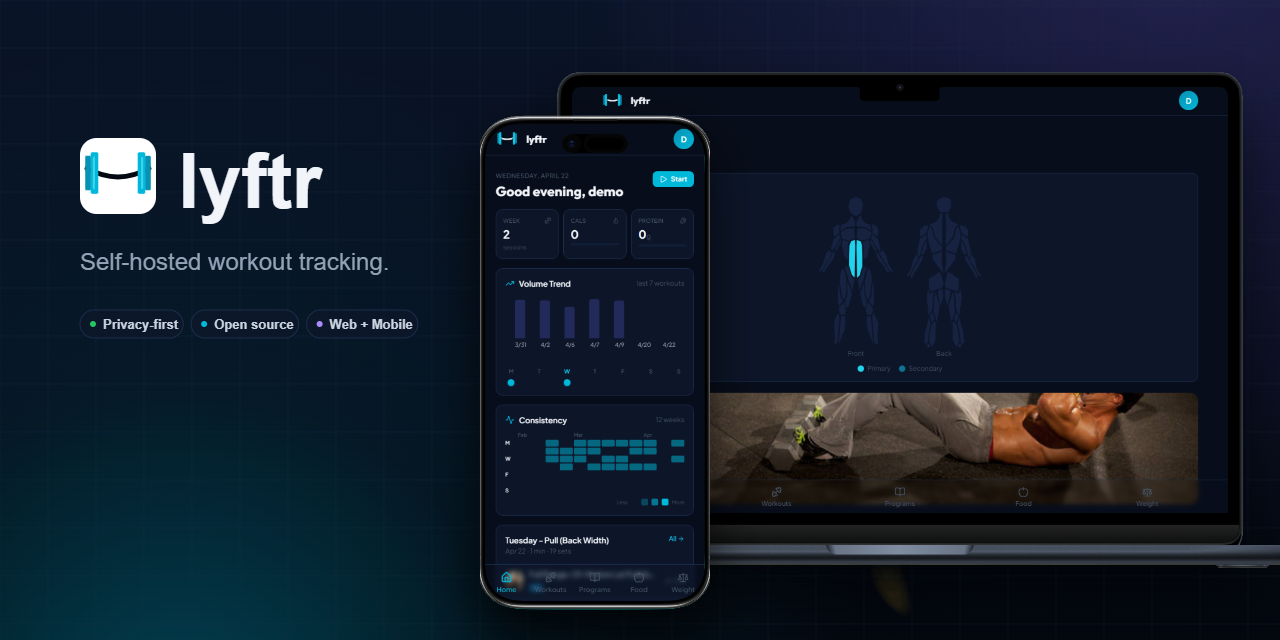
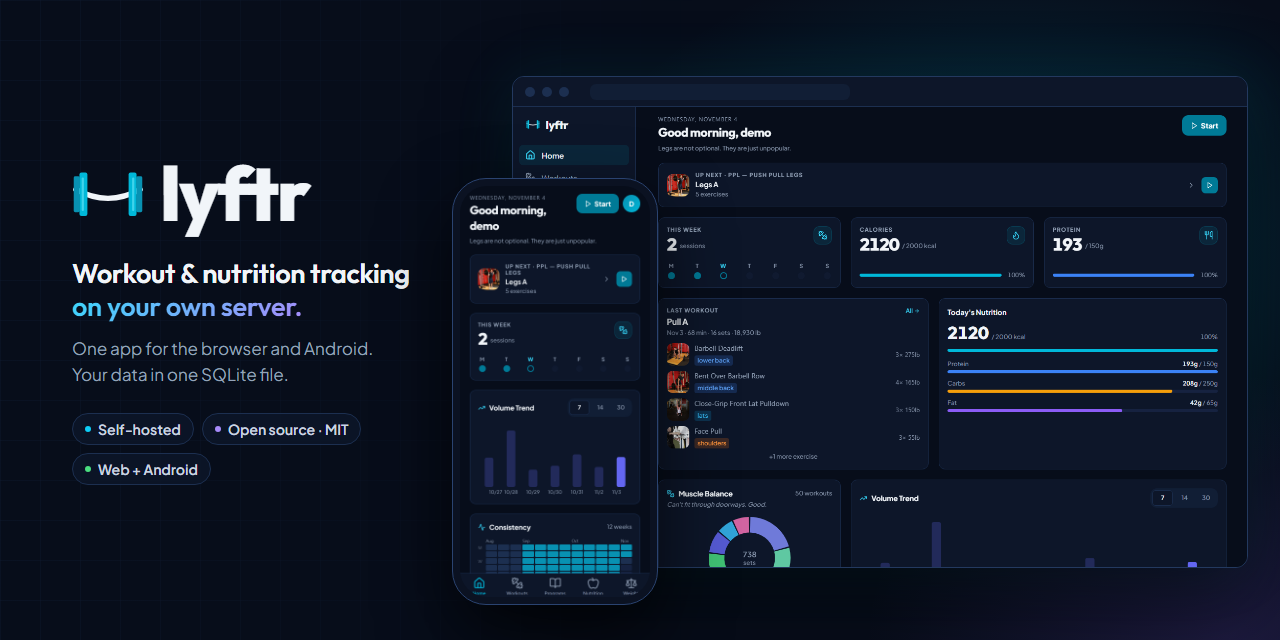
Refresh the landing page and docs for the Expo universal app
Landing: the hero shows the real dashboard on desktop and phone instead of the
stale banner, and a four-row tour (plan, lift, progress, eat) pairs a desktop
frame with a phone frame of the same feature, since "one app on every screen" is
what the new product is. Features and values are trimmed to claims the code
backs. Quick start matches the README (pull, then up).

Docs, corrected against the code:
- getting-started: one app on every screen, a "what's in it" list, the demo's
  one-tap sign-in, the seed is a week of meals rather than "food logs".
- self-hosting: what the two containers are; images are multi-arch (amd64,
  arm64, armv7, checked on Docker Hub); Hetzner CAX11 is Arm, not x86.
- https, mobile: a captured token is not irrevocable any more, a password or
  email change signs out every other device; the web app needs HTTPS to keep the
  screen awake during a workout (Screen Wake Lock), as it does for the camera.
- troubleshooting: the screen-sleeps-in-the-browser case.
- faq: the server does contact two outside services (open-exercise-db, Open
  Food Facts) and the client loads their images, so "nothing is sent to any
  third party" was not true; platforms; import is not available yet.
- backups: `latest` is built from main; how to pin a release tag.

Assets: replaced with current captures; dropped the six no longer used. The
og-image is the rebuilt banner.

Claude-Session: https://claude.ai/code/session_01GY7Lc9HhTWd1D65qC74jA4

diff --git a/site/src/content/docs/getting-started.md b/site/src/content/docs/getting-started.md
@@ -4,33 +4,51 @@ description: What Lyftr is, how to try the live demo, and where to go next.
 ---
 
 **Lyftr** is a self-hosted, open-source workout & nutrition tracker — a free, no-subscription
-alternative to Hevy and Strong. Your data lives on **your** server: a single SQLite file, minimal
-RAM, no external services required.
+alternative to Hevy and Strong. Your data lives on **your** server: a single SQLite file, a small
+Docker stack, no cloud account.
+
+It is one app on every screen. Your instance serves it to any browser, with a sidebar layout on a
+desktop and a tab bar on a phone, and the same app ships as an Android APK that talks to the same
+server.
 
 ## Try the live demo
 
 The fastest way to see Lyftr is the hosted demo — no install required.
 
 - **URL:** [lyftr-demo.fly.dev](https://lyftr-demo.fly.dev)
-- **Email:** `demo@lyftr.local`
-- **Password:** `password123`
+- **Sign in:** use the one-tap demo button on the sign-in screen, or `demo@lyftr.local` /
+  `password123`.
 
-It's pre-loaded with 8 weeks of push/pull/legs workouts, 90 days of weight logs, and food logs so
-every page has data to explore. It's a shared instance that **resets every hour**, so feel free to
-change anything — or register your own throwaway account.
+It's pre-loaded with a push/pull/legs program, 8 weeks of workouts, 90 days of weight logs and a
+week of meals, so every page has data to explore. It's a shared instance that **resets every
+hour**, so feel free to change anything — or register your own throwaway account.
 
 Those credentials are for the hosted demo only. Your own install does **not** come with that
 account — see [`DEMO_MODE`](../configuration/#the-demo-account) if you want the sample data
 locally, and [`REGISTRATION`](../configuration/#locking-down-registration) to control who may sign
 up on it.
 
+## What's in it
+
+- **Workouts** — an 800+ exercise library with photos and instructions, reusable programs, and
+  set-by-set logging with a rest timer.
+- **Gym Mode** — one exercise at a time with large controls: full screen on a phone, a focused
+  dialog on a desktop. Choose it under **Settings → Workout**.
+- **Progress** — personal bests and a weight-progression chart per exercise, a muscle diagram,
+  and a dashboard with your volume trend, muscle balance and a 12-week consistency heatmap.
+- **Nutrition** — calories and macros against your own targets, food search and barcode scanning
+  through [Open Food Facts](https://world.openfoodfacts.org), and macro trends.
+- **Weight** — a bodyweight log and trend chart, in lbs or kg.
+- **Light and dark themes**, in **English and Spanish**.
+
 ## Get the app
 
+- **Web** — served by your self-hosted instance (see [Self-Hosting](../self-hosting/)). Open it
+  in any browser, desktop or phone.
 - **Android** — download the latest signed APK from the
   [Releases](https://github.com/Cawlumm/lyftr/releases) page, install it, and point it at
   your server. Side-loaded builds don't auto-update — reinstall over the old one when a new
-  release drops.
-- **Web** — served by your self-hosted instance (see [Self-Hosting](../self-hosting/)).
+  release drops. See [Mobile App](../mobile/).
 - **iOS** — planned, shipping via TestFlight / the App Store once the Apple Developer account is set up.
 
 ## Next steps

diff --git a/site/src/content/docs/self-hosting.md b/site/src/content/docs/self-hosting.md
@@ -14,8 +14,8 @@ curl -o docker-compose.yml https://raw.githubusercontent.com/Cawlumm/lyftr/main/
 curl -o .env https://raw.githubusercontent.com/Cawlumm/lyftr/main/.env.example
 ```
 
-Edit `.env` and set a strong `JWT_SECRET` (32+ characters), then pull the prebuilt images and
-start:
+Edit `.env` and set `JWT_SECRET` to a long random string (32+ characters; `openssl rand -hex 32`
+makes one), then pull the prebuilt images and start:
 
 ```bash
 docker compose pull
@@ -46,17 +46,30 @@ setup — and refreshes it every 24 hours. It needs outbound HTTPS to do that. S
 [Exercise Library](../exercise-library/).
 :::
 
+## What you are running
+
+The compose file starts two containers:
+
+| Service | Image | What it does |
+|---------|-------|--------------|
+| `backend` | `cwlumm/lyftr-backend` | The Go API. Keeps everything in `./data/lyftr.db`, a single SQLite file. Reachable only on the Docker network. |
+| `frontend` | `cwlumm/lyftr-frontend` | nginx serving the Lyftr web app and proxying `/api` to the backend. The only published port (`PORT`, default 80). |
+
+The web app is the same app as the Android one, exported for the browser: a sidebar layout on a
+desktop, a tab bar on a phone. Everything you log is in `./data` next to your compose file — see
+[Backups & Updates](../backups/).
+
 ## Where it runs
 
-Tested and working on:
+The images are published for `amd64`, `arm64` and `armv7`, so it runs on:
 
 - **Raspberry Pi 4** (2 GB RAM, arm64 image)
-- **Any x86 VPS** — Hetzner CAX11, DigitalOcean Droplet, Oracle Free Tier
+- **A VPS** — Hetzner (the Arm CAX line included), DigitalOcean Droplet, Oracle Free Tier
 - **Synology NAS** via Docker (Container Manager)
 - **Proxmox LXC** with Docker installed
 - **Local machine** — Mac, Linux, Windows (WSL2)
 
-Single SQLite file, minimal RAM, no external services required.
+Single SQLite file, minimal RAM, no external database.
 
 ## Next steps
 

diff --git a/site/src/content/docs/faq.md b/site/src/content/docs/faq.md
@@ -21,8 +21,13 @@ on a $5 VPS or a Raspberry Pi.
 
 ## Where is my data stored?
 
-In a single SQLite file on your server. Nothing is sent to any third party. Backing up is copying
-that one file.
+In a single SQLite file on your server. Backing up is copying that one file.
+
+Your logs never leave it. The server does talk to two outside services, and only for public data:
+it downloads the exercise catalog from open-exercise-db, and when you search for a food or scan a
+barcode it sends that search or barcode to [Open Food Facts](https://world.openfoodfacts.org).
+Your browser or phone loads exercise photos from open-exercise-db and food photos from Open
+Food Facts directly.
 
 ## Do I need an API key or account for the exercise library?
 
@@ -37,12 +42,15 @@ pull request: see [Translations](https://github.com/Cawlumm/lyftr#translations).
 
 ## Which platforms are supported?
 
-Android (side-load APK) and web today; iOS is planned via TestFlight / the App Store. The server
-runs on Raspberry Pi, x86 VPS, Synology NAS, Proxmox, and local Mac/Linux/Windows.
+The web app, in any current browser on a desktop or a phone, and Android (side-load APK). Both
+are the same app, so features match. iOS is planned via TestFlight / the App Store. The server
+images are built for amd64, arm64 and armv7, so it runs on a Raspberry Pi, a VPS, a Synology NAS,
+Proxmox, and local Mac/Linux/Windows.
 
 ## Can I import my data from Strong or Hevy?
 
-CSV import is on the roadmap (planned), alongside a PWA build.
+Not yet. Importing Strong's CSV export, and a full export and import of your own data, are
+planned. Until then your data is the SQLite file itself, which you can open with any SQLite tool.
 
 ## How do I get help?
 

diff --git a/site/src/content/docs/https.md b/site/src/content/docs/https.md
@@ -97,14 +97,19 @@ documented quick-start would be unusable on a phone. But understand what you're 
 
 Nothing is encrypted. Every request carries your login token in the clear, so **anyone else
 on that network can read it and stay signed in as you** — on a home LAN that includes guests
-and any compromised device. Captured tokens stay valid until they expire and cannot be
-revoked; the only way to invalidate them is to change `JWT_SECRET`, which signs out every
-user on the instance.
+and any compromised device. A captured token stays valid until you change your password or
+email (which signs out every other device, see [Configuration](../configuration/#changing-your-password)),
+or until `JWT_SECRET` changes, which signs out every user on the instance.
 
 **Barcode scanning stops working in the web app.** Browsers only allow camera access on a
 secure page, so on plain HTTP the scanner can't open. This is a browser rule, not a Lyftr
 setting — no configuration turns it back on. The Android app is unaffected: it uses the
 phone's camera directly.
+
+**The screen can sleep mid-workout in the web app.** Keeping the screen on during a session
+uses the browser's [Screen Wake Lock API](https://developer.mozilla.org/en-US/docs/Web/API/Screen_Wake_Lock_API),
+which, like the camera, is only offered to a secure page. Over plain HTTP the workout screen
+says so and carries on. The Android app keeps the screen on either way.
 
 Use it to get running, then move to HTTPS. If you own a domain, the DNS-01 route above gets
 you a real certificate on a LAN-only hostname with no ports open — that is the fix, not a

diff --git a/site/src/content/docs/mobile.md b/site/src/content/docs/mobile.md
@@ -6,6 +6,12 @@ description: Install the Lyftr Android app, point it at your self-hosted server,
 Lyftr has a native mobile app so you can log workouts at the gym, straight from your phone —
 talking to **your** server.
 
+It is the same app your instance serves to browsers: one codebase builds the Android app and
+the web app, so the screens, features and translations match. The difference is what the
+phone allows a native app: it scans barcodes with the camera and keeps the screen on during
+a workout whether or not your server has HTTPS, where a browser only allows either on an
+`https://` page.
+
 ## Android
 
 1. Download the latest signed APK from the
@@ -42,8 +48,8 @@ update to the latest build.
 
 :::caution[What plain HTTP costs you]
 Nothing is encrypted. Every request carries your login token in the clear, so **anyone
-else on that network can read it and stay signed in as you**, and a captured token can't
-be revoked. The app shows an amber **Not encrypted** marker while this is in effect.
+else on that network can read it and stay signed in as you** until you change your password.
+The app shows an amber **Not encrypted** marker while this is in effect.
 
 Full detail and the fix: [HTTPS & Reverse Proxy](../https/). Treat plain HTTP as a
 temporary state, not a setup.

diff --git a/site/src/content/docs/troubleshooting.md b/site/src/content/docs/troubleshooting.md
@@ -58,6 +58,13 @@ Both need a current build, which also names the specific cause in the error mess
 of guessing. If you get a generic message mentioning CORS, update the app first.
 :::
 
+## The screen turns off during a workout in the browser
+
+The web app keeps the screen on with the browser's Screen Wake Lock, which only exists on an
+`https://` page. Over plain HTTP the workout screen shows **The screen may turn off during your
+workout** and carries on without it. Serve Lyftr over [HTTPS](../https/); the Android app is
+unaffected.
+
 ## Barcode scanner won't open in the web app
 
 It says **Camera needs HTTPS** because your instance is served over plain `http://`. No

diff --git a/site/src/content/docs/backups.md b/site/src/content/docs/backups.md
@@ -56,8 +56,10 @@ docker compose up -d
 Your data volume is preserved across updates.
 
 :::tip[Pin a stable version]
-Tracking `main` gets you the newest features but also the newest rough edges. For a stable
-self-host target, pin a released tag in your compose file instead of `latest`.
+`latest` is built from `main`: the newest features, and the newest rough edges. For a stable
+target, pin both images to the same released tag in your compose file — `cwlumm/lyftr-backend:<tag>`
+and `cwlumm/lyftr-frontend:<tag>`, with `<tag>` taken from the
+[Releases](https://github.com/Cawlumm/lyftr/releases) page (e.g. `v0.1.0-beta.8`).
 :::
 
 :::note
